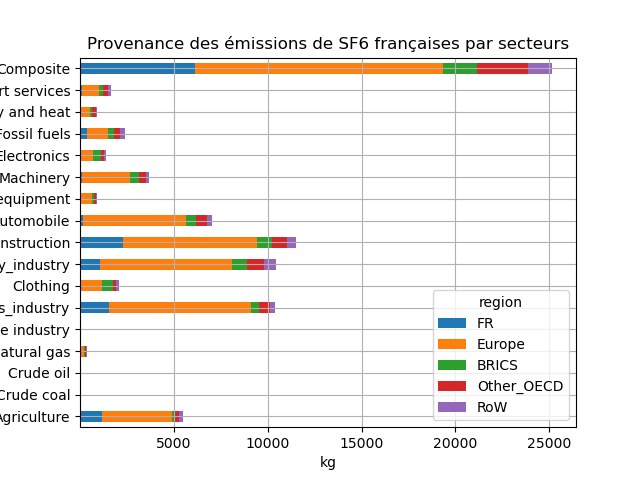
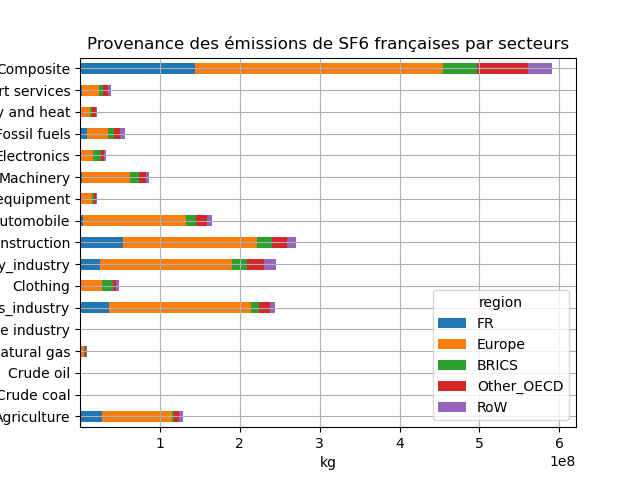
Tri de graphes - Changement d'unité kg -> kgCO2eq

diff --git a/main.py b/main.py
@@ -171,44 +171,18 @@ counterfactual.save_all(
 # concat results for visualisation
 ## ToDo
 #print(reference.ghg_emissions_desag.D_cba.sum(axis=0).FR) #empreinte carbone totale (peut faire si gaz en kgCO2eq)
-ghg_list = list(reference.ghg_emissions_desag.D_cba.index.get_level_values(1)[:6])
+ghg_list = ['CO2', 'CH4', 'N2O', 'SF6', 'HFC', 'PFC']
 sectors_list=list(reference.get_sectors())
 reg_list = list(reference.get_regions())
 
-#for ghg in ghg_list:
-#    with plt.style.context('ggplot'):
-#        reference.ghg_emissions_desag.plot_account(ghg, figsize=(8,5))
-#        plt.savefig('figures/ref_'+ghg+'.png', dpi=300)
-#        plt.show()
 ref_dcba = pd.DataFrame(reference.ghg_emissions_desag.D_cba)
-filtre_co2 = ref_dcba.index.get_level_values(1)=='CO2'
-CO2_total_by_sector = ref_dcba.iloc[filtre_co2]['FR']
+ref_dpba=pd.DataFrame(reference.ghg_emissions_desag.D_pba)
+ges_direc_fr = ref_dpba['FR']
 
-# with plt.style.context('ggplot'):
-# 	CO2_total_by_sector.plot.barh(stacked=True)
-# 	plt.title("Répartition des émissions de chaque région par secteur")
-# 	plt.savefig('figures/French_CO2_by_sector_each_region.png')
-	#plt.show()
-# with plt.style.context('ggplot'):
-# 	CO2_total_by_sector.transpose().plot.barh(stacked=True)
-# 	plt.title("Origine des émissions de CO2 pour chaque secteur")
-# 	plt.savefig('figures/French_CO2_by_origin_each_sector.png')
-# 	#plt.show()
-
-ch4toco2=72
-n20toco2=289
-sf6toco2=15100
 
 Total_ghg_desag_fr = ref_dcba['FR']
 sumonsectors = Total_ghg_desag_fr.sum(axis=1)
-#print(sumonsectors)
-sumonsectors.iloc[sumonsectors.index.get_level_values(1)=='CH4'] *= ch4toco2
-sumonsectors.iloc[sumonsectors.index.get_level_values(1)=='N2O'] *= n20toco2
-sumonsectors.iloc[sumonsectors.index.get_level_values(1)=='SF6'] *= sf6toco2
-#print(sumonsectors)
-
 total_ges_by_origin = sumonsectors.sum(level=0)
-print(total_ges_by_origin)
 liste_agg_ghg=[]
 for ghg in ghg_list:
 	liste_agg_ghg.append(sumonsectors.iloc[sumonsectors.index.get_level_values(1)==ghg].sum(level=0))
@@ -217,24 +191,23 @@ dict_pour_plot = {'Total':total_ges_by_origin,'CO2':liste_agg_ghg[0],
 'CH4':liste_agg_ghg[1],'N2O':liste_agg_ghg[2],'SF6':liste_agg_ghg[3],
 'HFC':liste_agg_ghg[4],'PFC':liste_agg_ghg[5]}
 pour_plot=pd.DataFrame(data=dict_pour_plot,index=reg_list)
-print(pour_plot)
 pour_plot.transpose().plot.bar(stacked=True)
+plt.title("Empreinte carbone de la France")
+plt.ylabel("kgCO2eq")
 plt.savefig("figures/empreinte_carbone_fr_importation.png")
-plt.show()
+#plt.show()
 
 #Other version :
-ghg_list = list(reference.ghg_emissions_desag.D_cba.index.get_level_values(1)[:6])
-print(ghg_list)
 for ghg in ghg_list:
     df = pd.DataFrame(None, index = reference.get_sectors(), columns = reference.get_regions())
     for reg in reference.get_regions():
         df.loc[:,reg]=ref_dcba.transpose().loc['FR',(reg,ghg)]
     ax=df.plot.barh(stacked=True)
     plt.grid()
-    plt.xlabel("kg")
+    plt.xlabel("kgCO2eq")
     plt.title("Provenance des émissions de "+ghg+" françaises par secteurs")
     plt.savefig('figures/french_'+ghg+'emissions_provenance_sectors')
-    plt.show()
+    #plt.show()
 
 
 ###########################

diff --git a/utils.py b/utils.py
@@ -25,7 +25,6 @@ class Tools:
     def extract_ghg_emissions(IOT):
 
         ghg_emissions = ['CO2', 'CH4', 'N2O', 'SF6', 'HFC', 'PFC']
-
         extension_list = list()
 
         for ghg_emission in ghg_emissions:
@@ -69,7 +68,8 @@ class Tools:
 
 
     def calc_accounts(S, L, Y, nr_sectors):
-
+        ghg_list = ['CO2', 'CH4', 'N2O', 'SF6', 'HFC', 'PFC']
+        mult_to_CO2eq = {'CO2':1, 'CH4':28 , 'N2O':265 , 'SF6':23500 , 'HFC':1 , 'PFC':1}
         Y_diag = ioutil.diagonalize_blocks(Y.values, blocksize=nr_sectors)
         Y_diag = pd.DataFrame(
             Y_diag,
@@ -79,7 +79,8 @@ class Tools:
         x_diag = L.dot(Y_diag)
 
         region_list = x_diag.index.get_level_values('region').unique()
-
+        for ghg in ghg_list:
+            S.loc[ghg] *= mult_to_CO2eq[ghg]
         D_cba = pd.concat(
             [
                 S[region].dot(x_diag.loc[region])\
@@ -106,7 +107,6 @@ class Tools:
             keys = region_list,
             names = ['region']
         )
-
         return (D_cba, D_imp)
 
 
